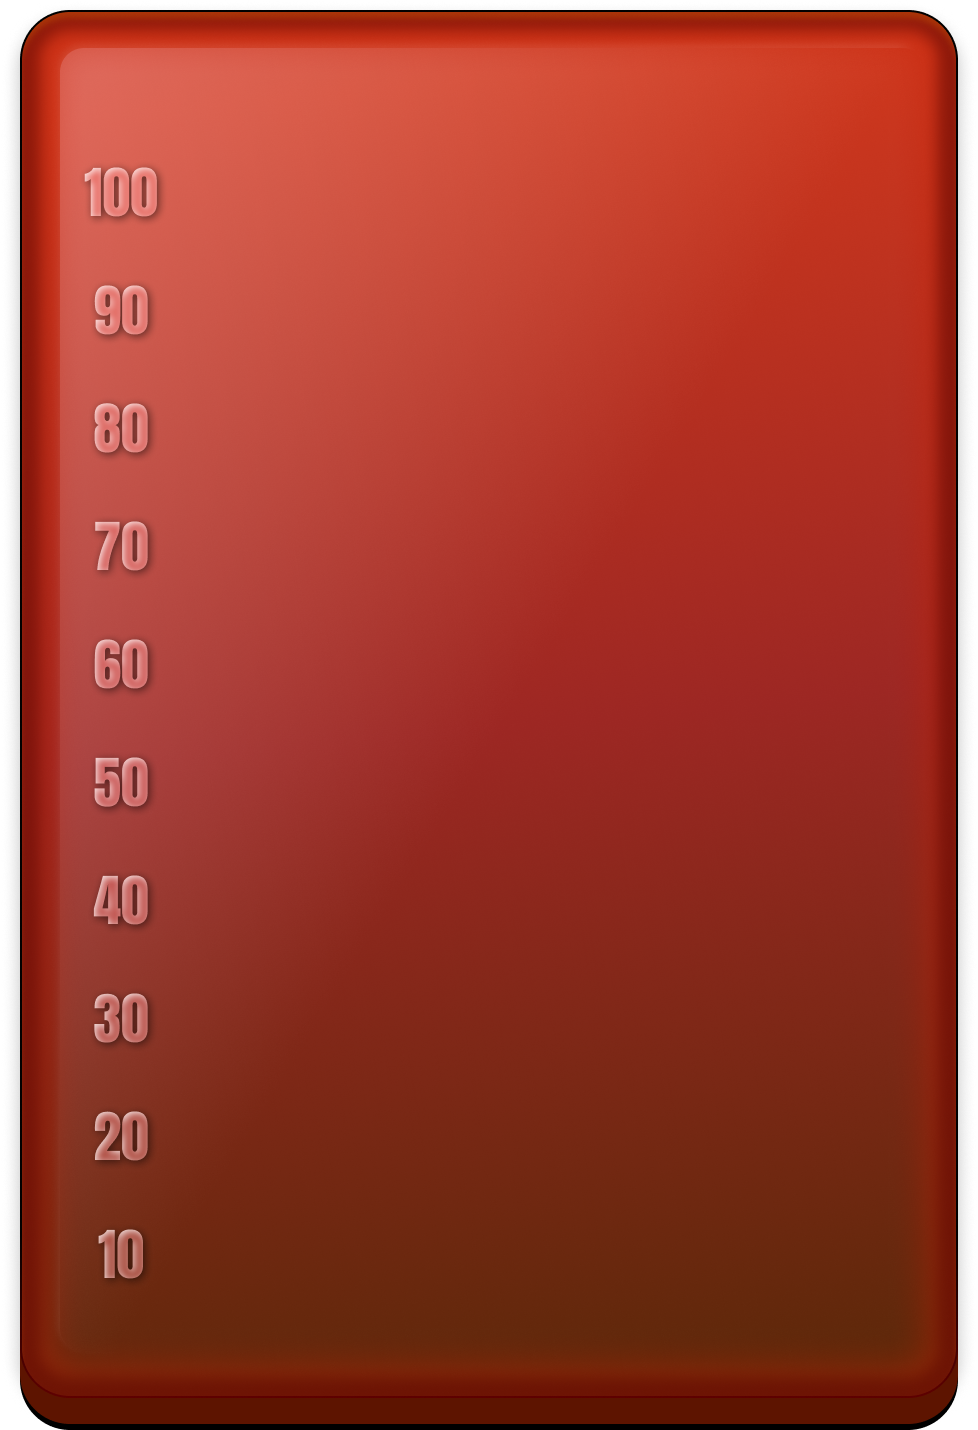
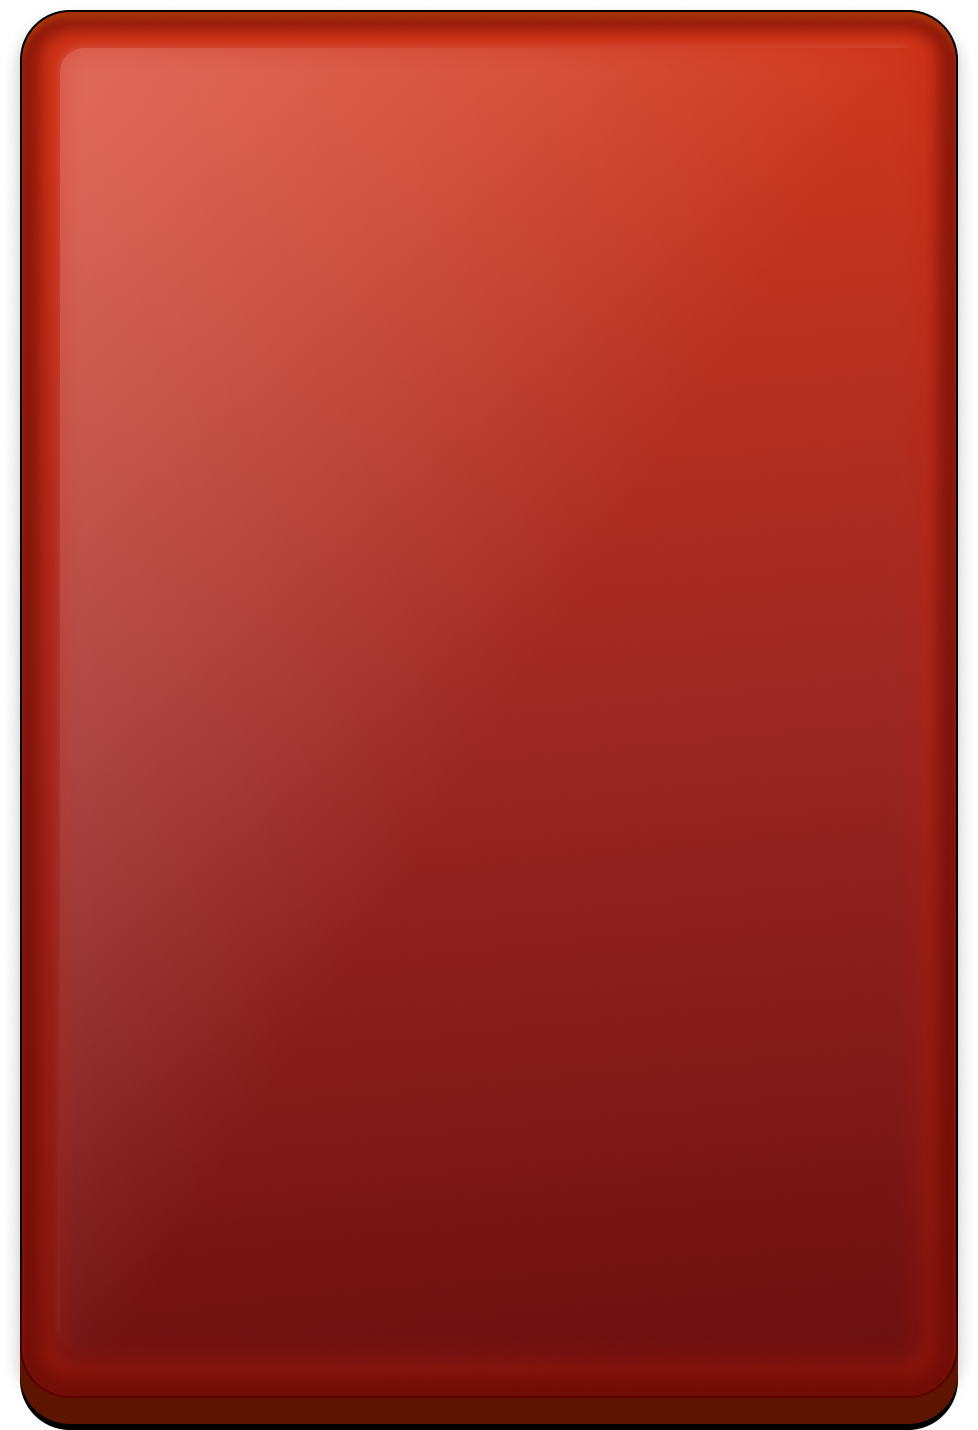
updating rack art

diff --git a/_rakko/Rack.tsx b/_rakko/Rack.tsx
@@ -9,7 +9,7 @@ type RackProps = {
   onSelectSlot?: (index: number) => void;
 };
 
-/** Figma rack (sm): PNG tray + default-sm cards. Points are baked into the PNG. */
+/** Figma rack (sm): rack-base med PNG + default-sm cards. */
 export function Rack({ cards, canSelect = false, onSelectSlot }: RackProps) {
   const slots = Array.from({ length: RACK_SIZE }, (_, i) => cards[i] ?? null);
 

diff --git a/_rakko/Rack.module.css b/_rakko/Rack.module.css
@@ -1,4 +1,4 @@
-/* Figma rack sm: 342×500, rack-base PNG (points embossed in asset). */
+/* Figma rack-base Property 1=med (165:23993): 342×500 display, 2× PNG. */
 .rack {
   position: relative;
   overflow: clip;
